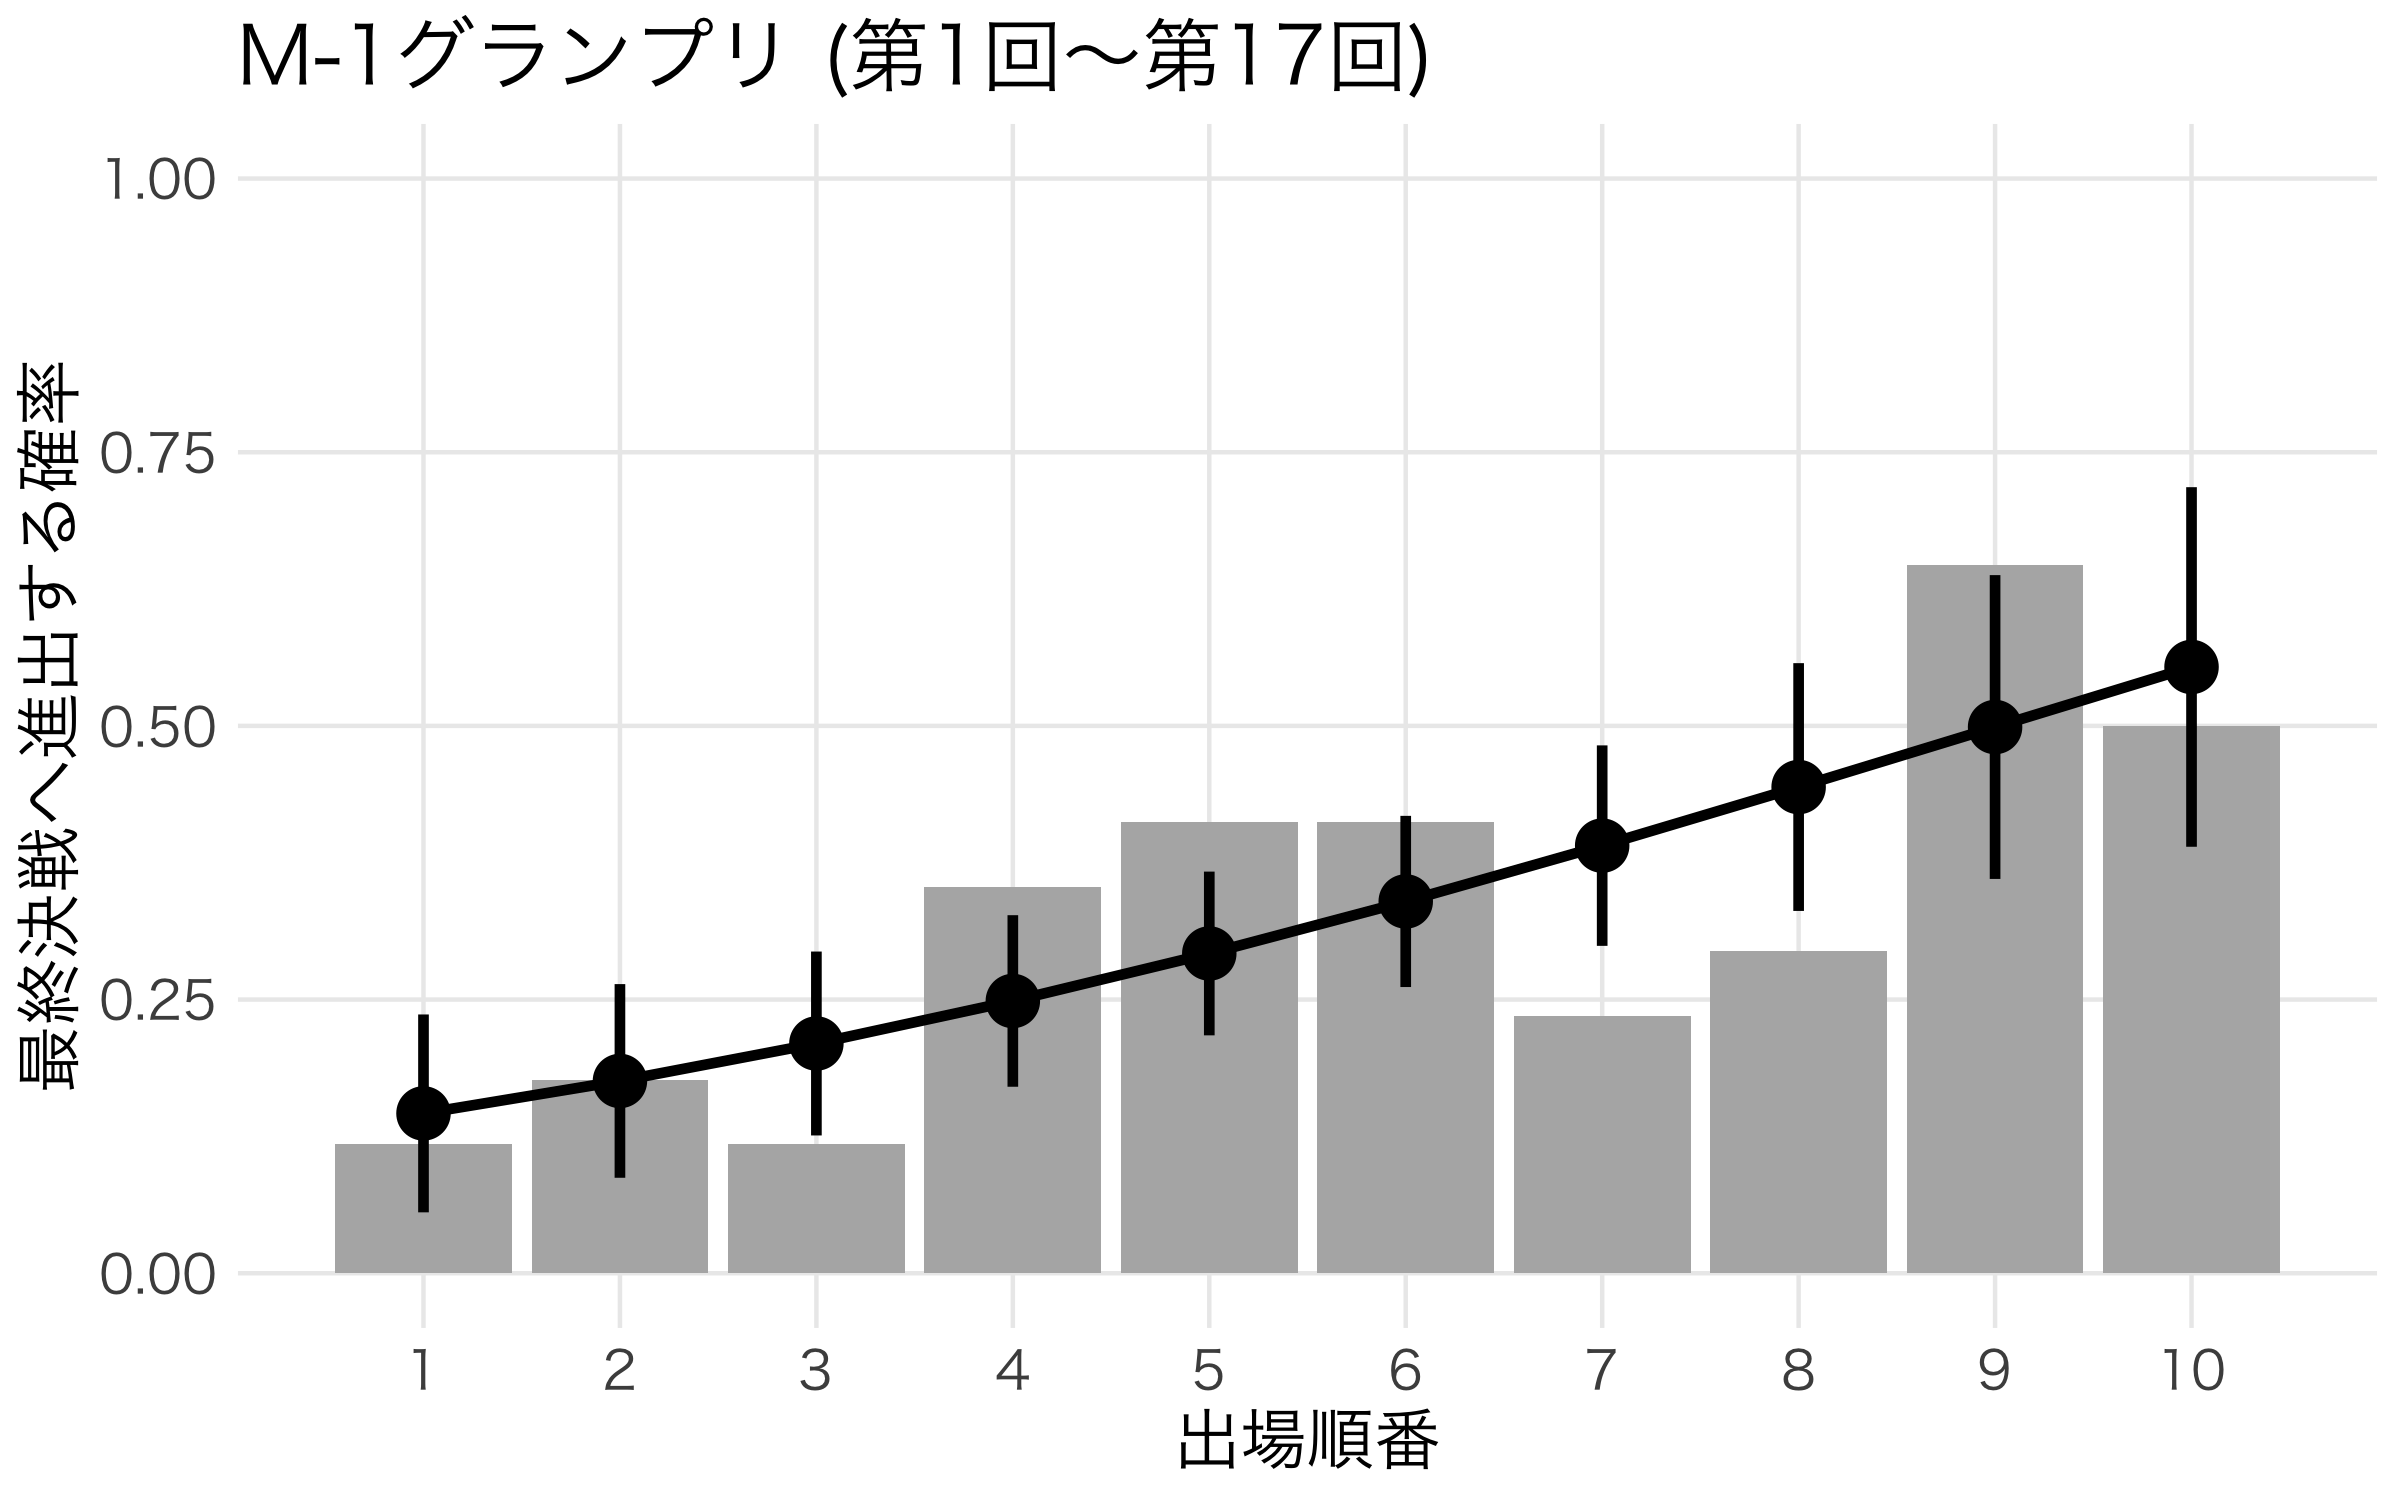
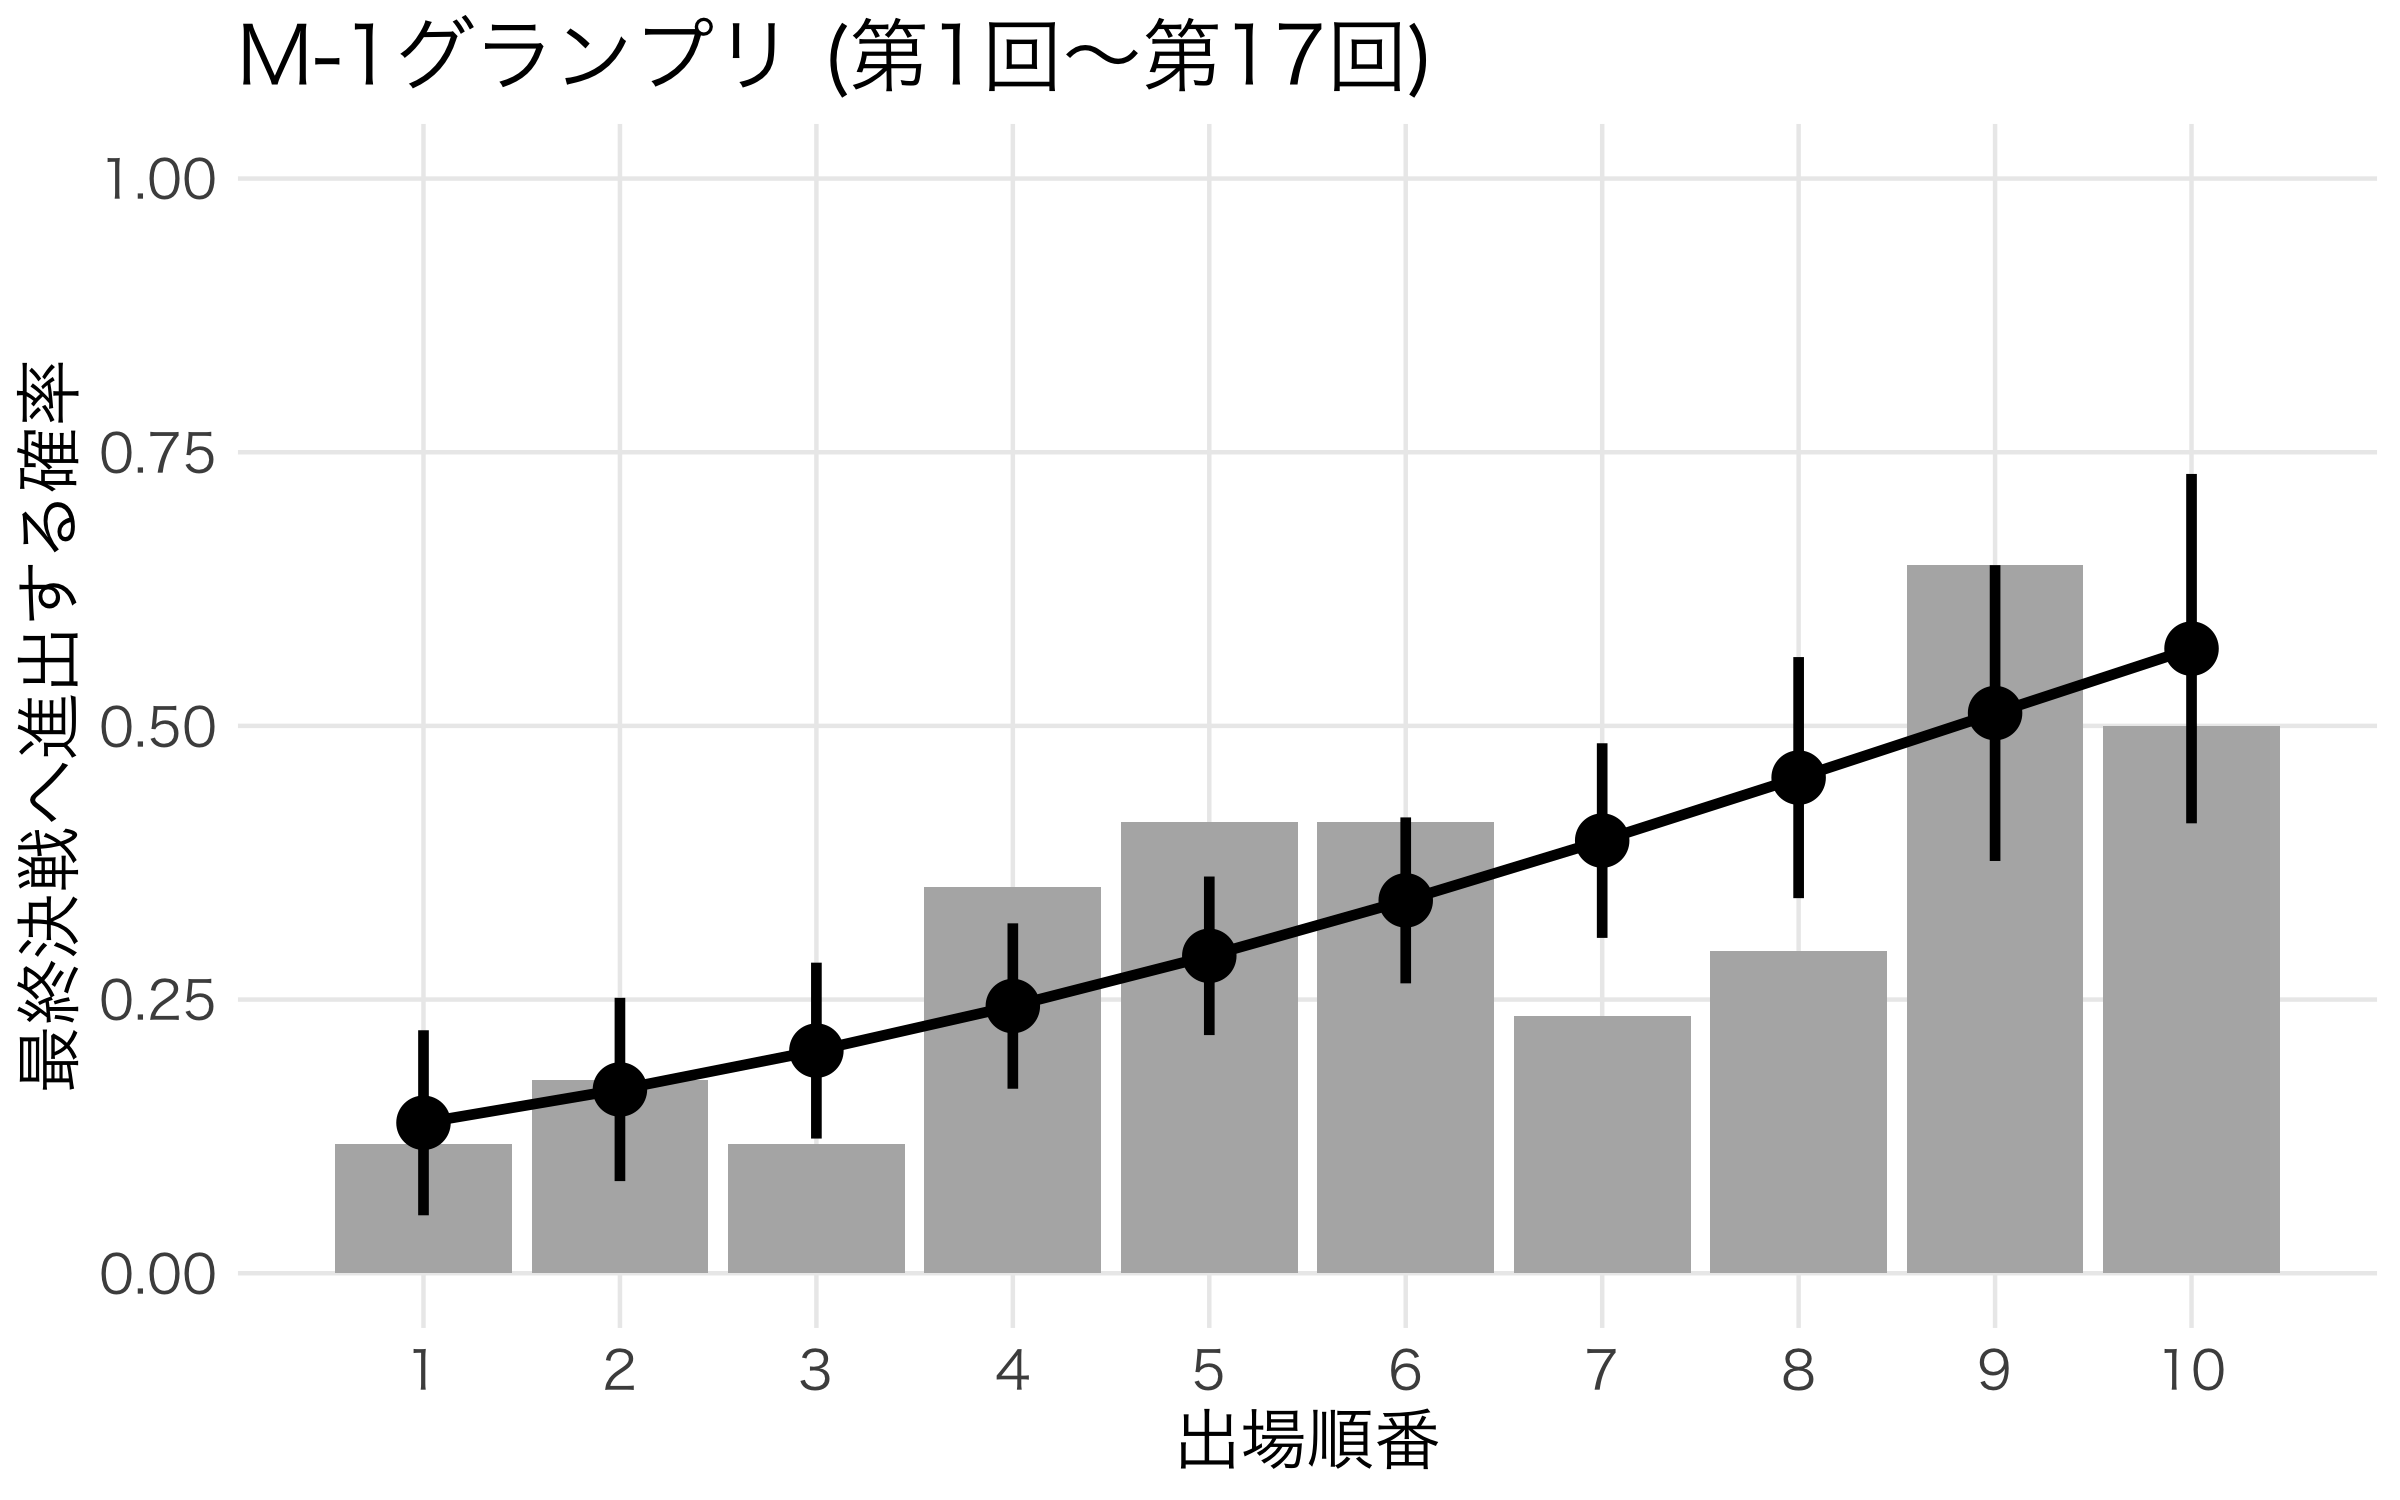
no message

diff --git a/README.md b/README.md
@@ -39,7 +39,41 @@ bar_df <- df %>%
   group_by(Order10) %>%
   summarise(Mean_Final = mean(Final))
 
-glm(Final ~ Order10, data = df, family = binomial("logit")) %>% 
+fit <- glm(Final ~ Order10 + Since + No_Finals, 
+           data = df, family = binomial("logit"))
+
+summary(fit)
+```
+
+```
+Call:
+glm(formula = Final ~ Order10 + Since + No_Finals, family = binomial("logit"), 
+    data = df)
+
+Deviance Residuals: 
+    Min       1Q   Median       3Q      Max  
+-1.5954  -0.8731  -0.5989   1.1249   2.0307  
+
+Coefficients:
+            Estimate Std. Error z value Pr(>|z|)    
+(Intercept) 54.84634   62.57057   0.877 0.380730    
+Order10      0.24927    0.07193   3.466 0.000529 ***
+Since       -0.02863    0.03125  -0.916 0.359711    
+No_Finals    0.33850    0.13579   2.493 0.012672 *  
+---
+Signif. codes:  0 ‘***’ 0.001 ‘**’ 0.01 ‘*’ 0.05 ‘.’ 0.1 ‘ ’ 1
+
+(Dispersion parameter for binomial family taken to be 1)
+
+    Null deviance: 198.00  on 158  degrees of freedom
+Residual deviance: 178.63  on 155  degrees of freedom
+AIC: 186.63
+
+Number of Fisher Scoring iterations: 4
+```
+
+```r
+fit %>% 
   prediction(at = list(Order10 = 1:10)) %>%
   summary() %>%
   rename("Order" = "at(Order10)") %>%
